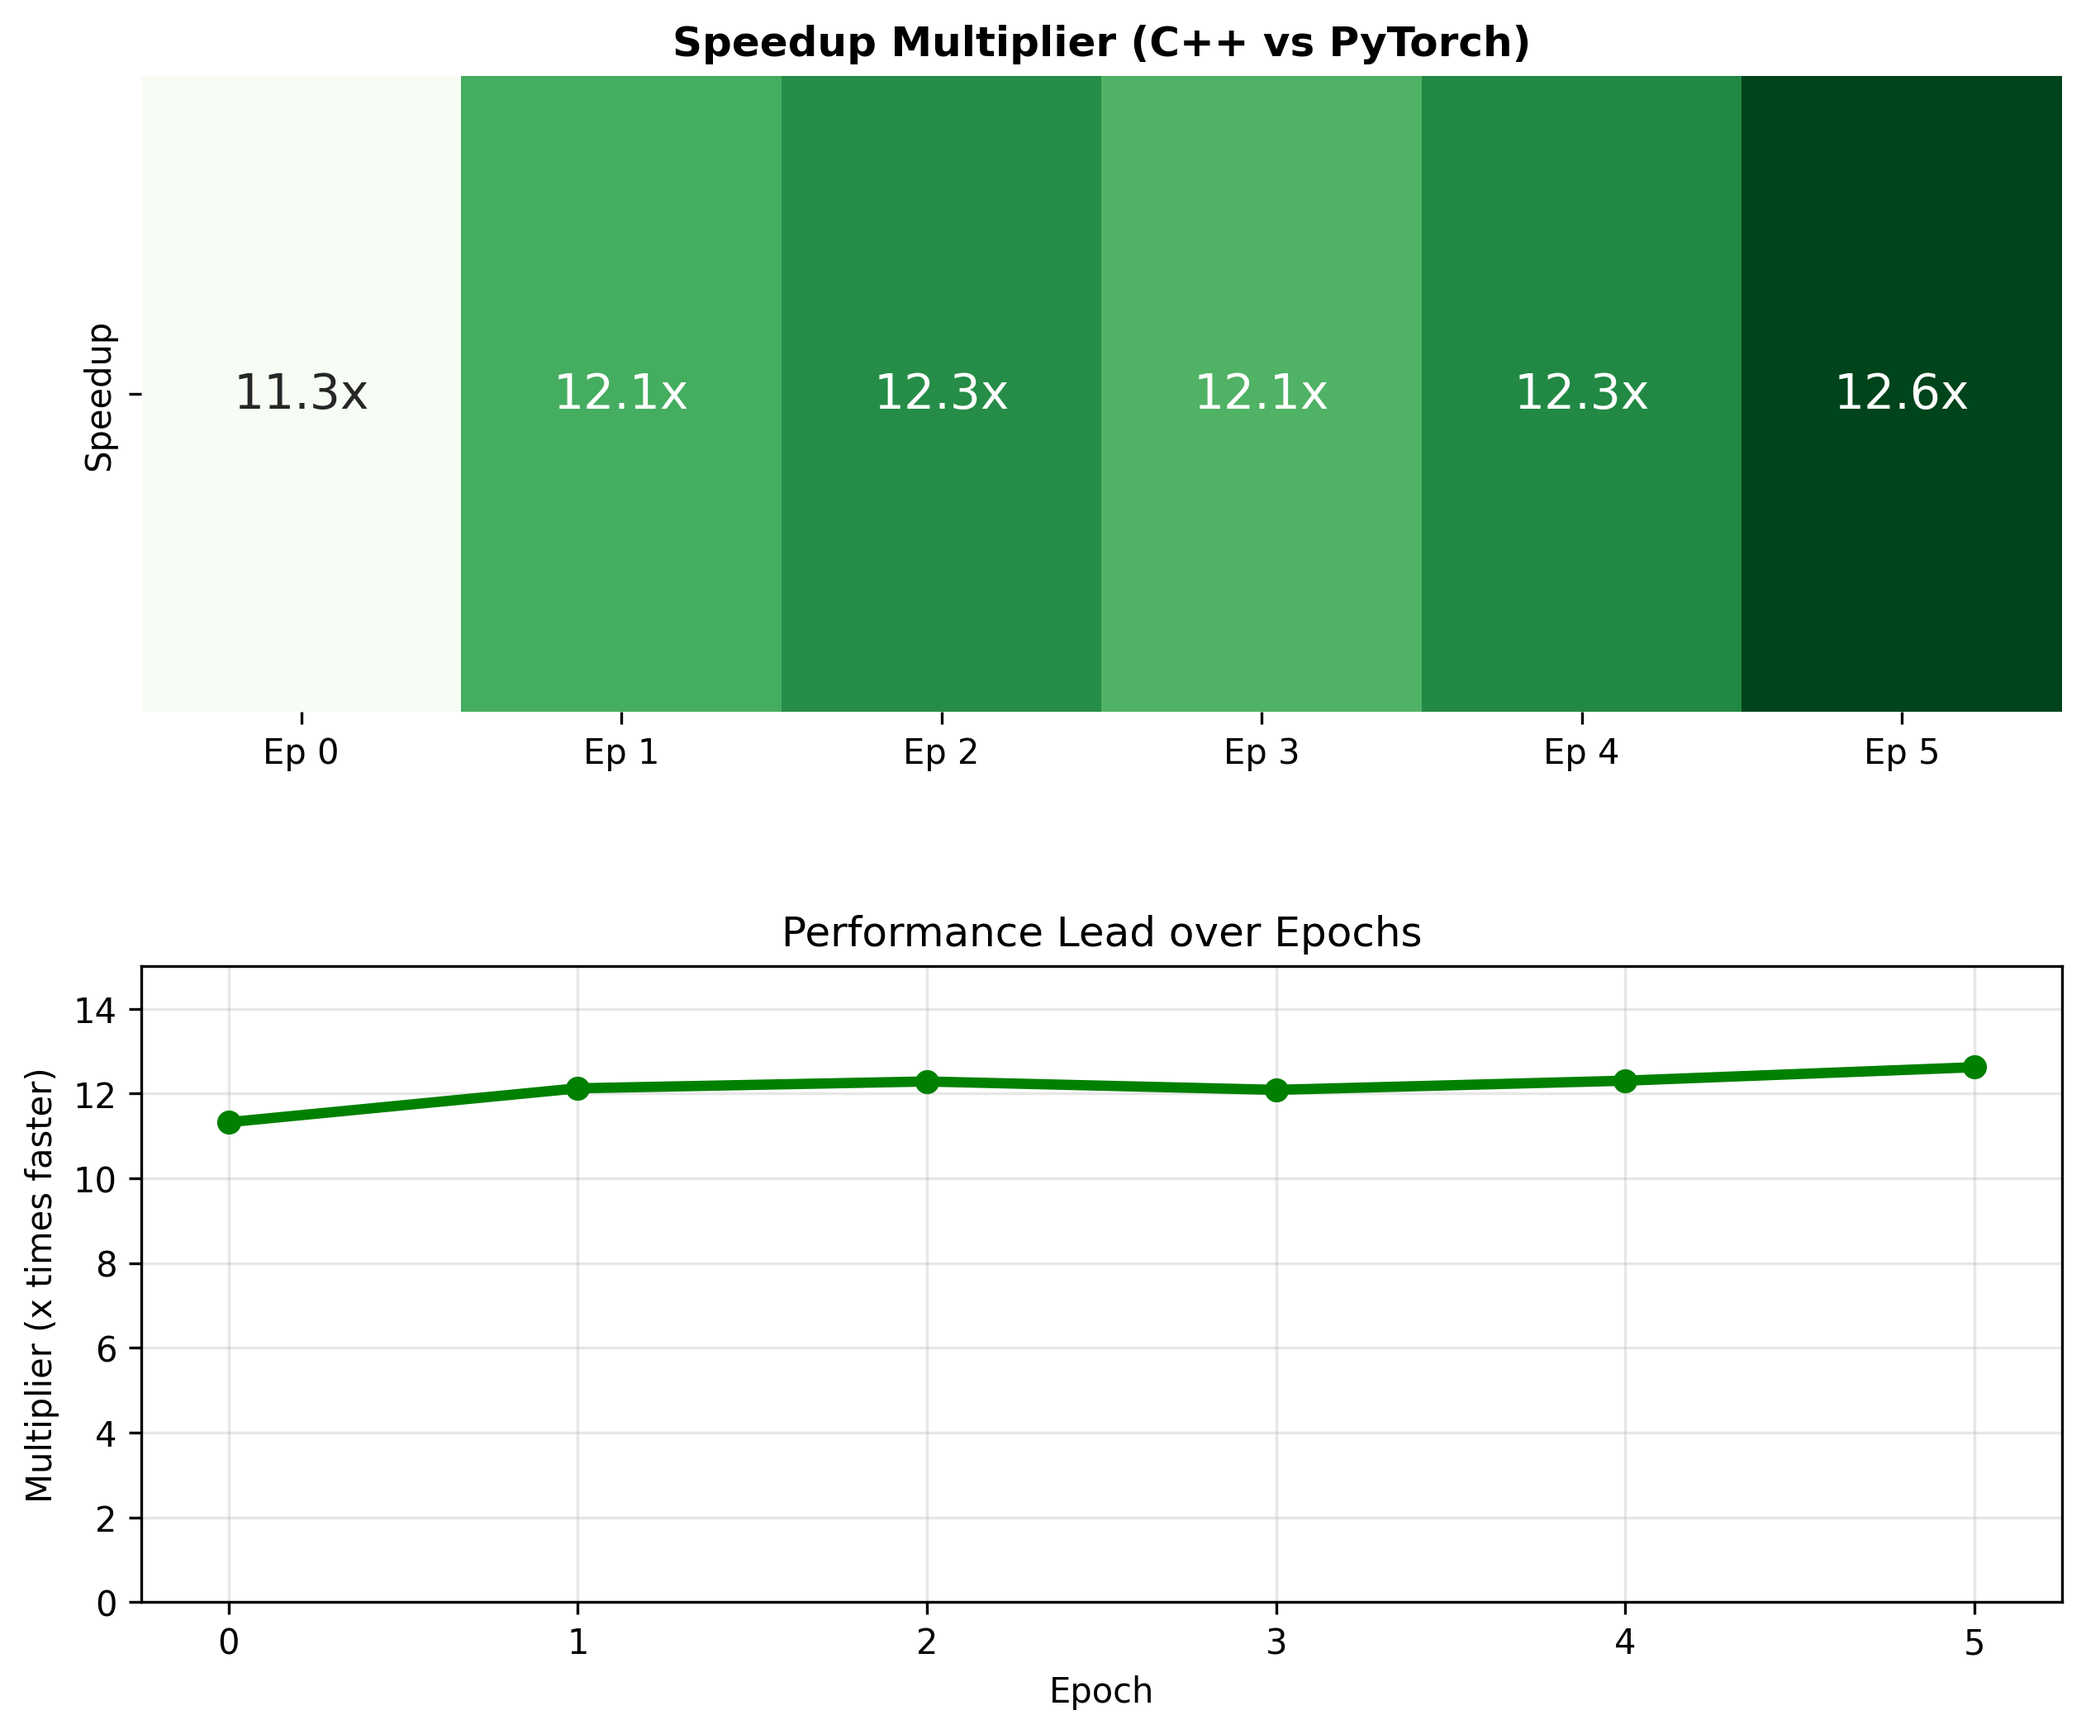
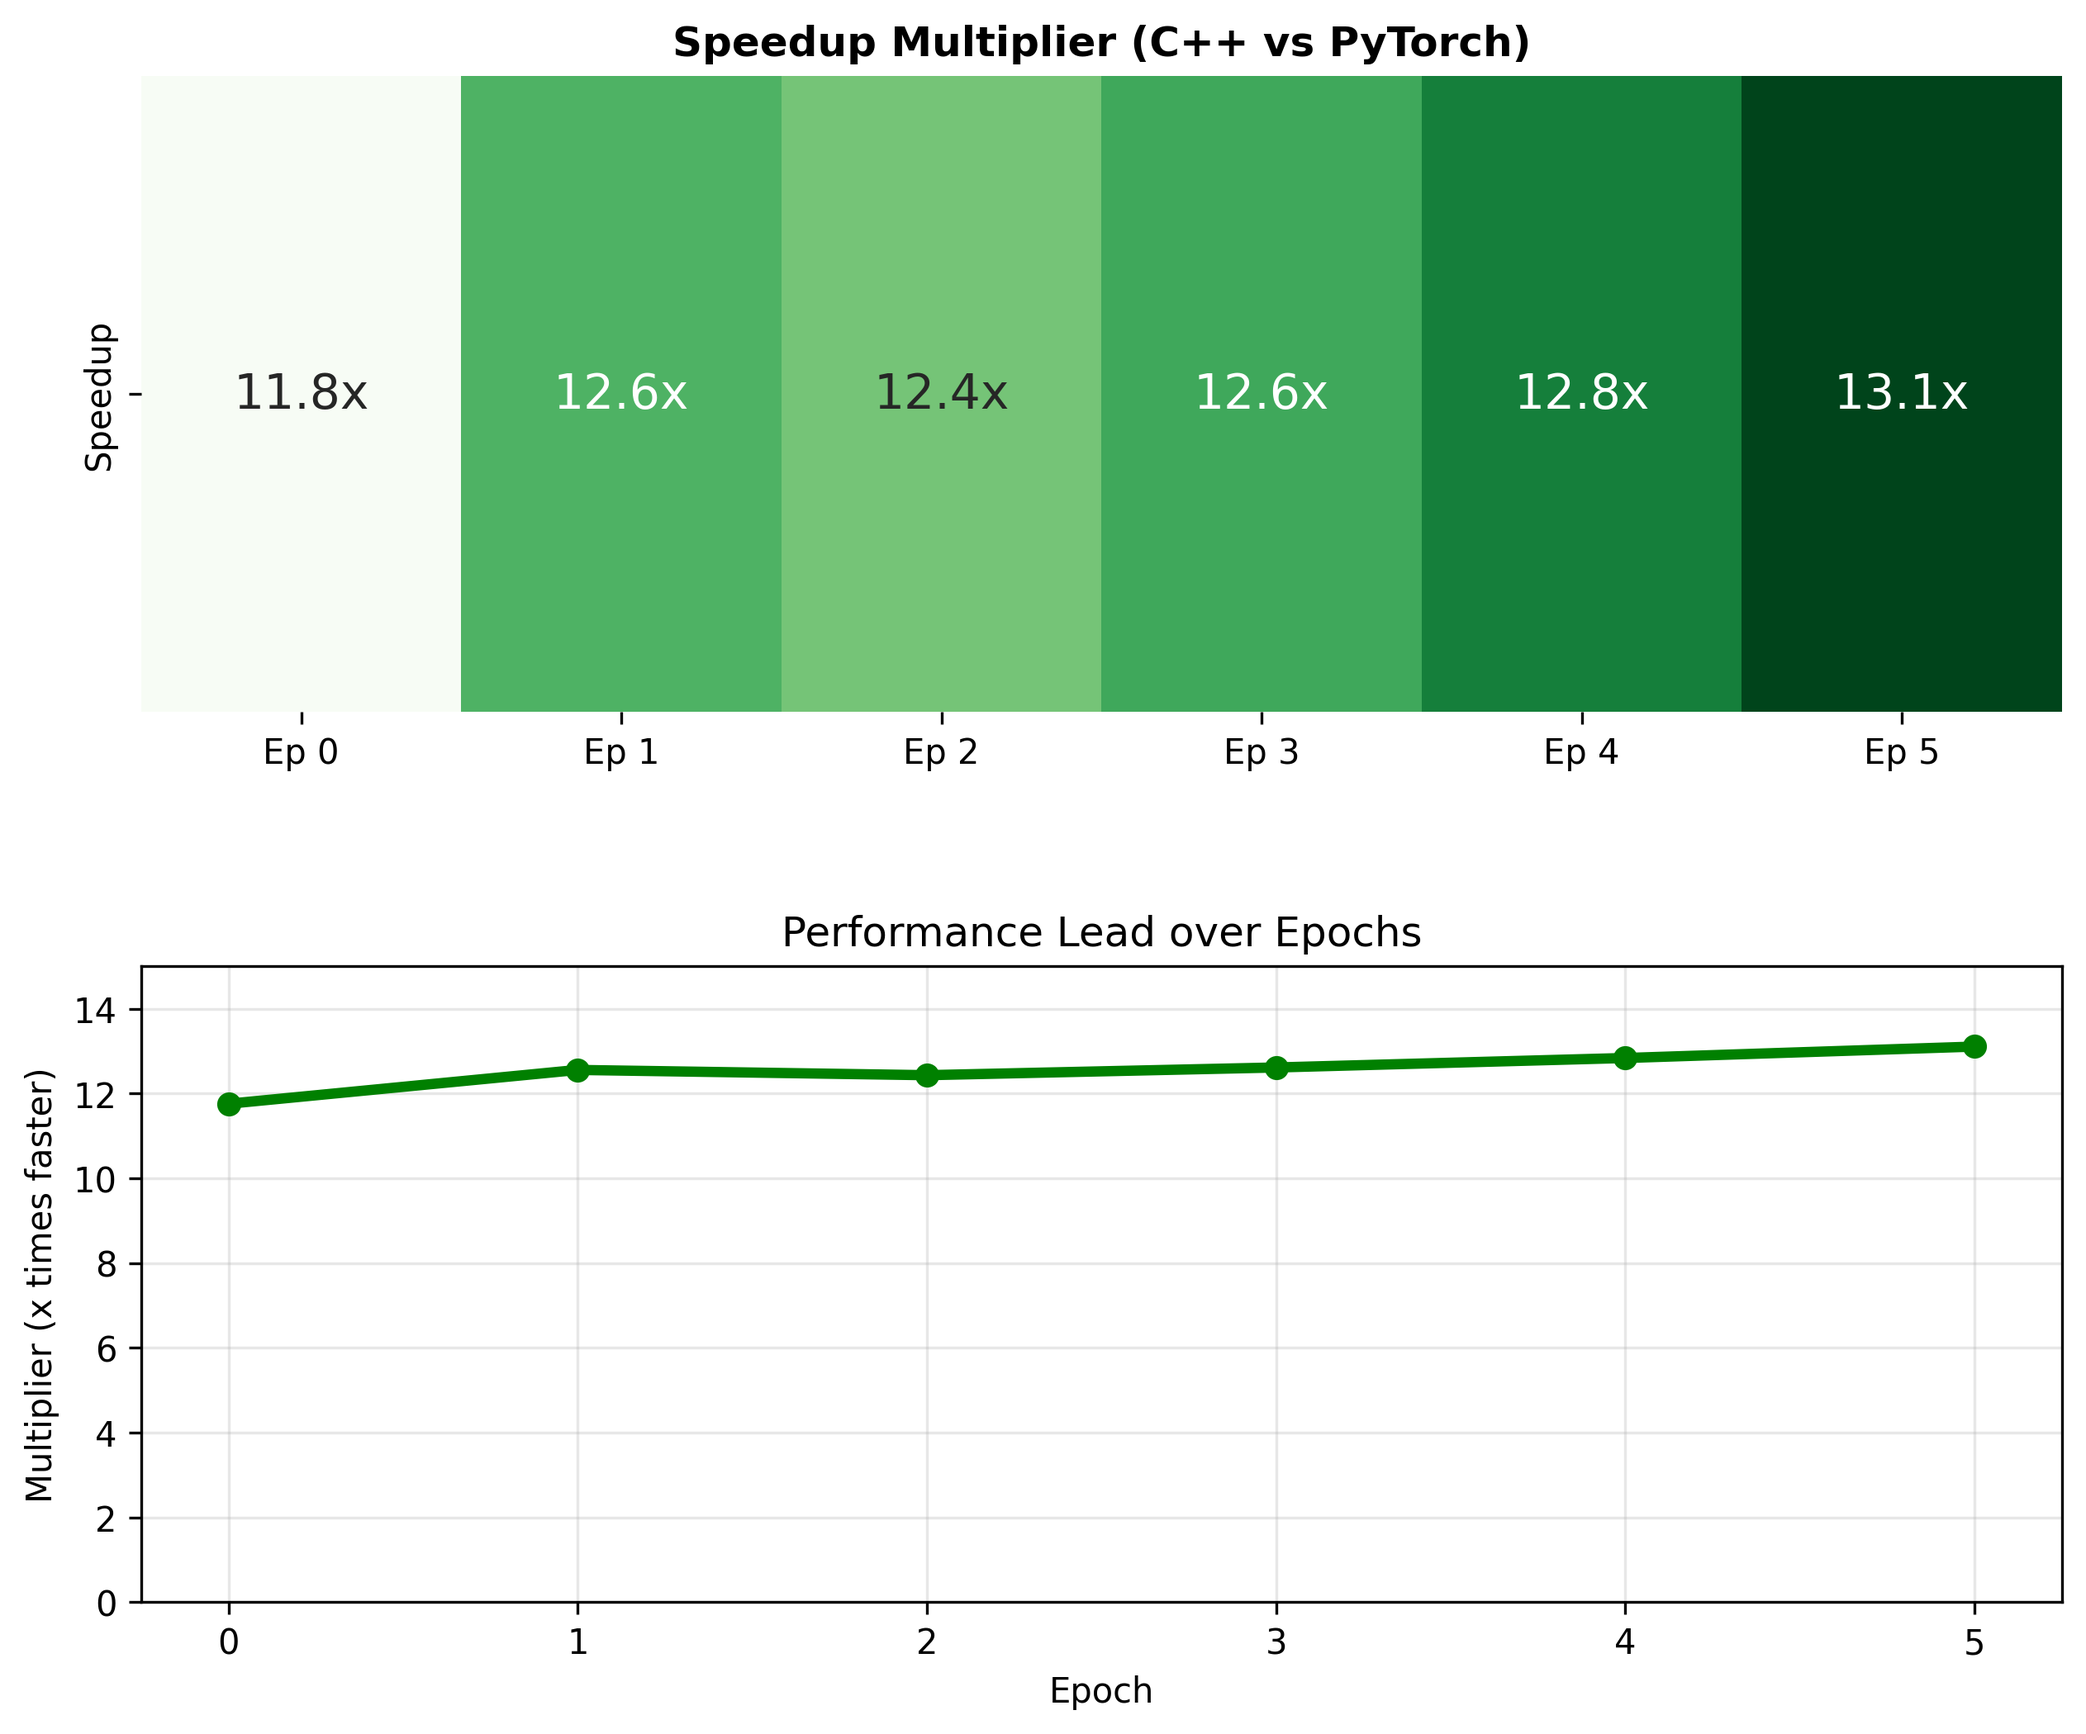
commented out cudeDeviceSynch and let my code run as is + update graphs based on raw data

diff --git a/benchmark2.py b/benchmark2.py
@@ -5,7 +5,7 @@ import numpy as np
 
 # Your benchmark data
 epochs = np.arange(6)
-cpp = np.array([117429, 129375, 128442, 128228, 128245, 128316])
+cpp = np.array([121945, 134007, 129990, 133833, 133825, 133262])
 torch = np.array([10373.7, 10675.0, 10458.5, 10612.3, 10426.8, 10169.5])
 
 # Calculate Multiplier: C++ / Torch

diff --git a/benchmark.py b/benchmark.py
@@ -5,7 +5,7 @@ import numpy as np
 
 # Data
 epochs = np.arange(6)
-cpp = np.array([117429, 129375, 128442, 128228, 128245, 128316])
+cpp = np.array([121945, 134007, 129990, 133833, 133825, 133262])
 torch = np.array([10373.7, 10675.0, 10458.5, 10612.3, 10426.8, 10169.5])
 speedup_pct = ((cpp - torch) / torch) * 100
 
